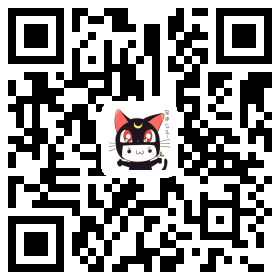
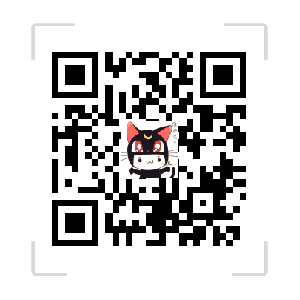
demo地址变更

diff --git a/README.md b/README.md
@@ -63,7 +63,7 @@ react + redux + immutable + less + scss + ES6/7 + webpack + fetch + react-router
 
 
 ## 演示
-[demo](http://dev.fe.ptdev.cn/pxq/)（请用chrome的手机模式预览）
+[demo](http://cangdu.org/pxq/)（请用chrome的手机模式预览）
    
 ### 移动端扫描下方二维码
 ![](https://github.com/bailicangdu/pxq/blob/master/src/images/demo.png)
